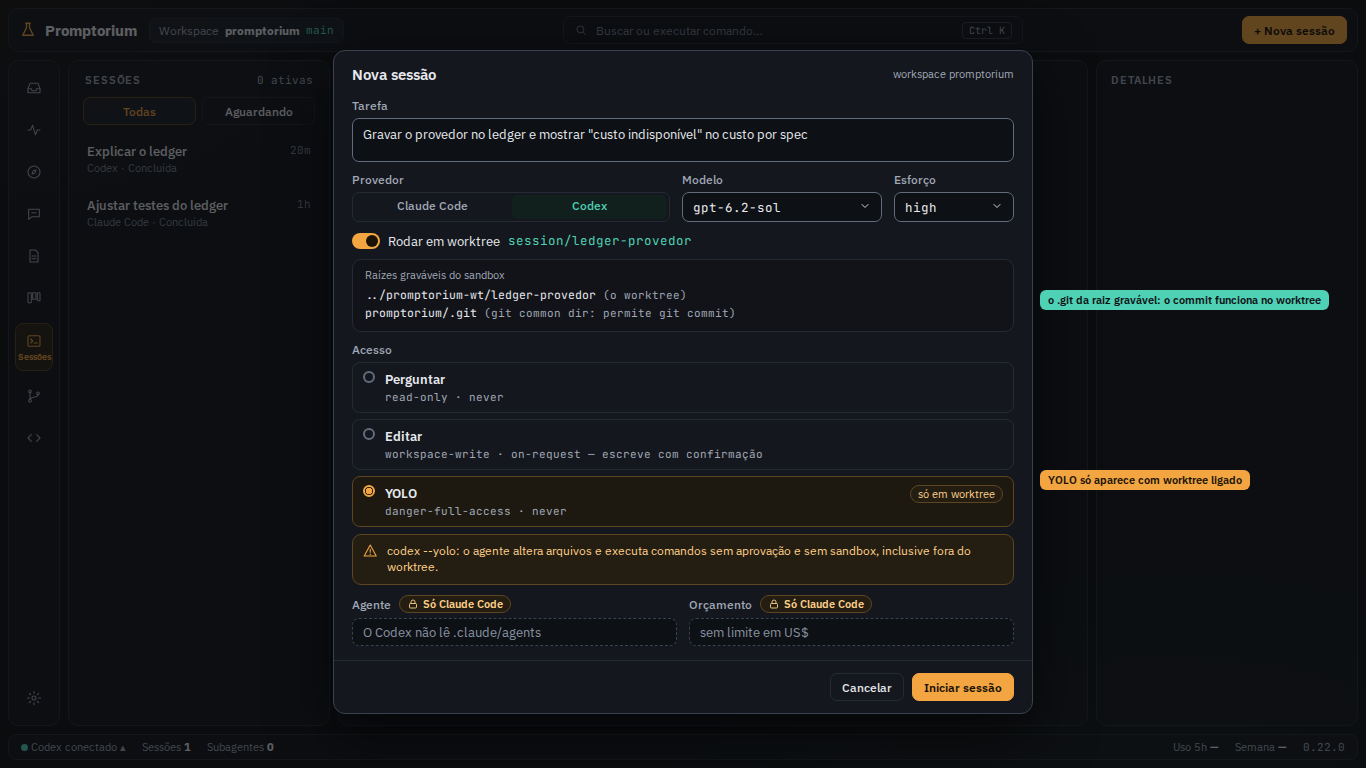
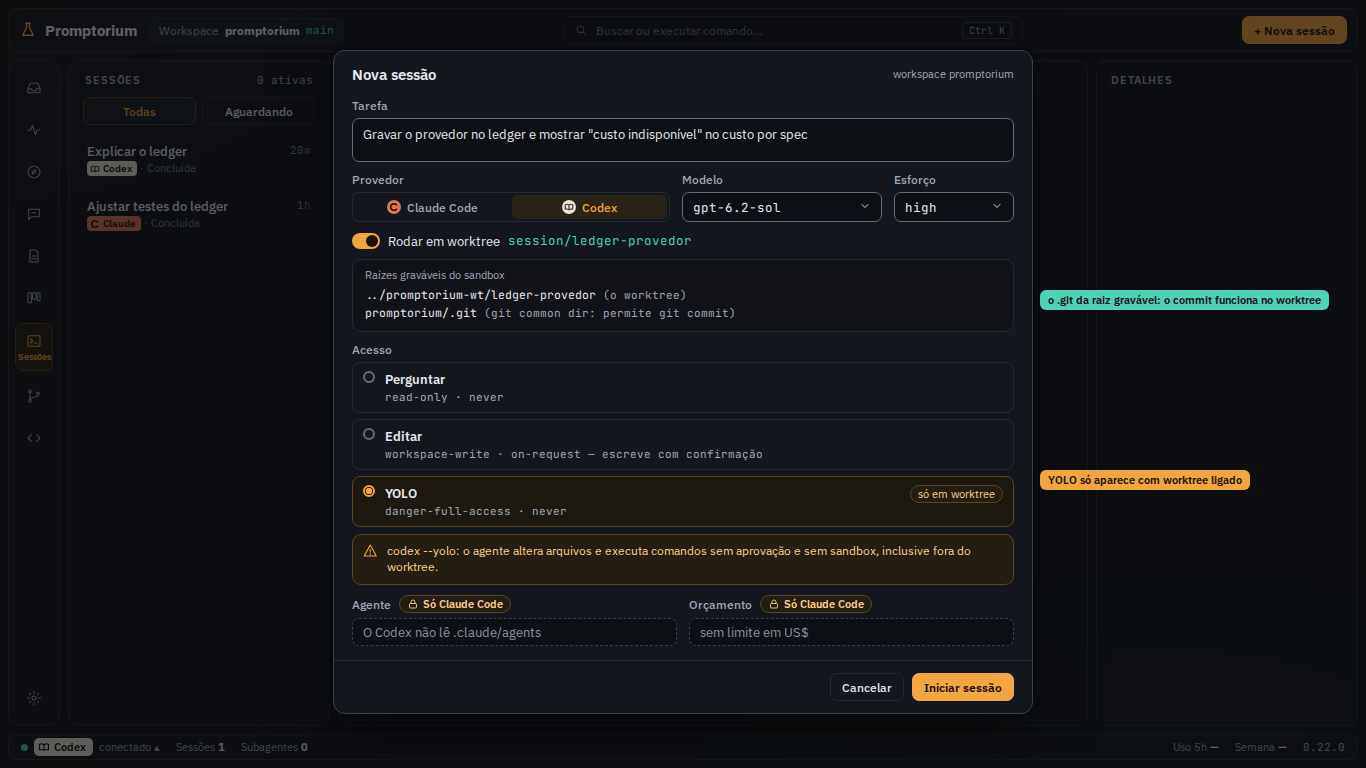
docs(spec): SPEC-096 cores de provedor

diff --git a/docs/specs/SPEC-096-codex-prompt-e-sessoes.md b/docs/specs/SPEC-096-codex-prompt-e-sessoes.md
@@ -154,3 +154,5 @@ Canvas: [SPEC-096 · Codex no Prompt e nas Sessões](https://claude.ai/artifact/
 | `docs/mockups/spec-096/2-nova-sessao.png` | Nova sessão com o Codex em worktree: modelo e esforço do Codex, acesso com YOLO só em worktree e o aviso, raízes graváveis incluindo o `.git` da raiz | R9–R11 |
 | `docs/mockups/spec-096/3-sessao-codex.png` | Sessão Codex interrompida: status "Interrompida" (não falha), Retomar e Fork, painel com thread, provedor e "bifurcada de …", aba Terminal com `codex resume` | R3, R12, R13, R16 |
 | `docs/mockups/spec-096/4-estados-e-fluxos.png` | Rodapé com o Codex sem login e a orientação, Configurações → Provedores com o interruptor de emergência, e Executar spec com "Só Claude Code por enquanto" | R1, R2, R15 |
+
+Os mocks mostram o provedor com o chip ou a marca de identidade da SPEC-094 (R14: Claude = argila `#D97757`, Codex = porcelana `#E8E4DA`, sempre com nome ou glifo, nunca como estado).
